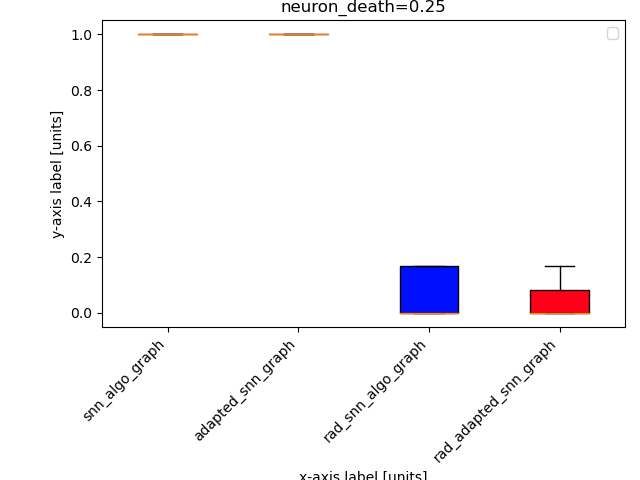
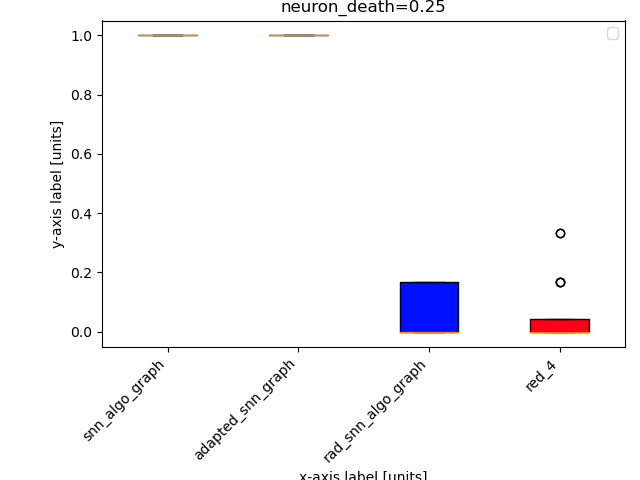
Included separate redundancy level.

diff --git a/src/snncompare/export_results/analysis/create_performance_plots.py b/src/snncompare/export_results/analysis/create_performance_plots.py
@@ -109,6 +109,7 @@ def create_performance_plots(exp_config: Exp_config) -> None:
             boxplot_data: Dict[
                 str, Dict[int, Boxplot_x_val]
             ] = get_boxplot_datapoints(
+                adaptation=adaptation,
                 wanted_run_configs=wanted_run_configs,
                 seeds=exp_config.seeds,
             )
@@ -157,6 +158,7 @@ def get_completed_and_missing_run_configs(
 
 @typechecked
 def get_boxplot_datapoints(
+    adaptation: Dict[str, int],
     wanted_run_configs: List[Run_config],
     # run_config_nx_graphs: Dict,
     seeds: List[int],
@@ -164,34 +166,60 @@ def get_boxplot_datapoints(
     """Returns the run configs that still need to be ran."""
 
     boxplot_data: Dict[str, Dict[int, Boxplot_x_val]] = get_mdsa_boxplot_data(
-        seeds
+        adaptation=adaptation,
+        graph_names=get_expected_stage_1_graph_names(wanted_run_configs[0]),
+        seeds=seeds,
     )
 
     # Create x-axis categories (no redundancy, n-redundancy).
     # for run_config, graphs_dict in run_config_nx_graphs.items():
     for wanted_run_config in wanted_run_configs:
+        if wanted_run_config.adaptation == adaptation:
+            # Get the results per x-axis category per graph type.
+            for algo_name in wanted_run_config.algorithm.keys():
+                if algo_name == "MDSA":
 
-        # Get the results per x-axis category per graph type.
-        for algo_name in wanted_run_config.algorithm.keys():
-            if algo_name == "MDSA":
+                    graph_names = get_expected_stage_1_graph_names(
+                        wanted_run_config
+                    )
+                    graphs_dict: Dict = load_verified_json_graphs_from_json(
+                        run_config=wanted_run_config,
+                        expected_stages=[1, 2, 4],
+                    )
 
-                graph_names = get_expected_stage_1_graph_names(
-                    wanted_run_config
-                )
-                graphs_dict = load_verified_json_graphs_from_json(
-                    run_config=wanted_run_config,
-                    expected_stages=[1, 2, 4],
-                )
-                for graph_name in graph_names:
-                    if graph_name != "input_graph":
+                    x_labels, results = get_x_labels(
+                        adaptation=adaptation,
+                        graphs_dict=graphs_dict,
+                        graph_names=graph_names,
+                    )
+                    for x_label in x_labels:
                         add_graph_scores(
                             boxplot_data=boxplot_data,
-                            graph_type=graph_name,
-                            result=graphs_dict[graph_name]["graph"]["results"],
+                            graph_type=x_label,
+                            result=results[x_label],
                             seed=wanted_run_config.seed,
                         )
 
     return boxplot_data
+
+
+@typechecked
+def get_x_labels(
+    adaptation: Dict[str, int],
+    graphs_dict: Dict,
+    graph_names: List[str],
+) -> Tuple[List[str], Dict]:
+    """Returns the x-axis labels per dataserie/boxplot."""
+    x_labels: List[str] = []
+    results = {}
+    for graph_name in graph_names:
+        if graph_name == "rad_adapted_snn_graph":
+            x_labels.append(f'red_{adaptation["redundancy"]}')
+            results[x_labels[-1]] = graphs_dict[graph_name]["graph"]["results"]
+        elif graph_name != "input_graph":
+            x_labels.append(graph_name)
+            results[x_labels[-1]] = graphs_dict[graph_name]["graph"]["results"]
+    return x_labels, results
 
 
 @typechecked
@@ -210,6 +238,8 @@ def add_graph_scores(
 
 @typechecked
 def get_mdsa_boxplot_data(
+    adaptation: Dict[str, int],
+    graph_names: List[str],
     seeds: List[int],
 ) -> Dict[str, Dict[int, Boxplot_x_val]]:
     """Creates the boxplot data objects for the MDSA algorithm."""
@@ -219,13 +249,20 @@ def get_mdsa_boxplot_data(
             correct_results=0,
             wrong_results=0,
         )
-
-    boxplot_data: Dict[str, Dict[int, Boxplot_x_val]] = {
-        "snn_algo_graph": copy.deepcopy(x_series_data),
-        "adapted_snn_graph": copy.deepcopy(x_series_data),
-        "rad_snn_algo_graph": copy.deepcopy(x_series_data),
-        "rad_adapted_snn_graph": copy.deepcopy(x_series_data),
-    }
+    boxplot_data: Dict[str, Dict[int, Boxplot_x_val]] = {}
+    for graph_name in graph_names:
+        if graph_name == "rad_adapted_snn_graph":
+            boxplot_data[f'red_{adaptation["redundancy"]}'] = copy.deepcopy(
+                x_series_data
+            )
+        elif graph_name != "input_graph":
+            boxplot_data[graph_name] = copy.deepcopy(x_series_data)
+    # boxplot_data: Dict[str, Dict[int, Boxplot_x_val]] = {
+    # "snn_algo_graph": copy.deepcopy(x_series_data),
+    # "adapted_snn_graph": copy.deepcopy(x_series_data),
+    # "rad_snn_algo_graph": copy.deepcopy(x_series_data),
+    # "rad_adapted_snn_graph": copy.deepcopy(x_series_data),
+    # }
 
     return boxplot_data
 
